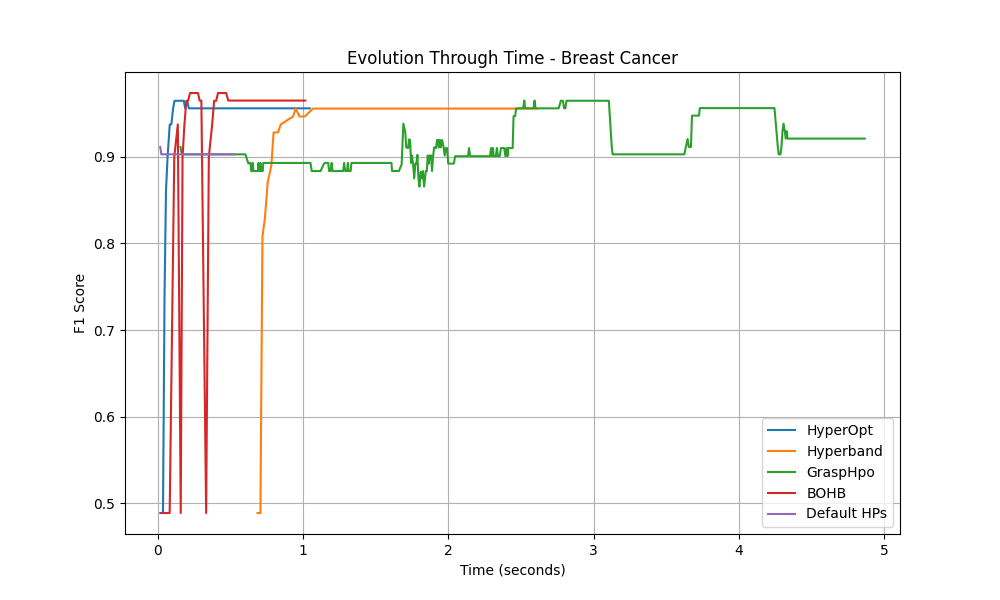
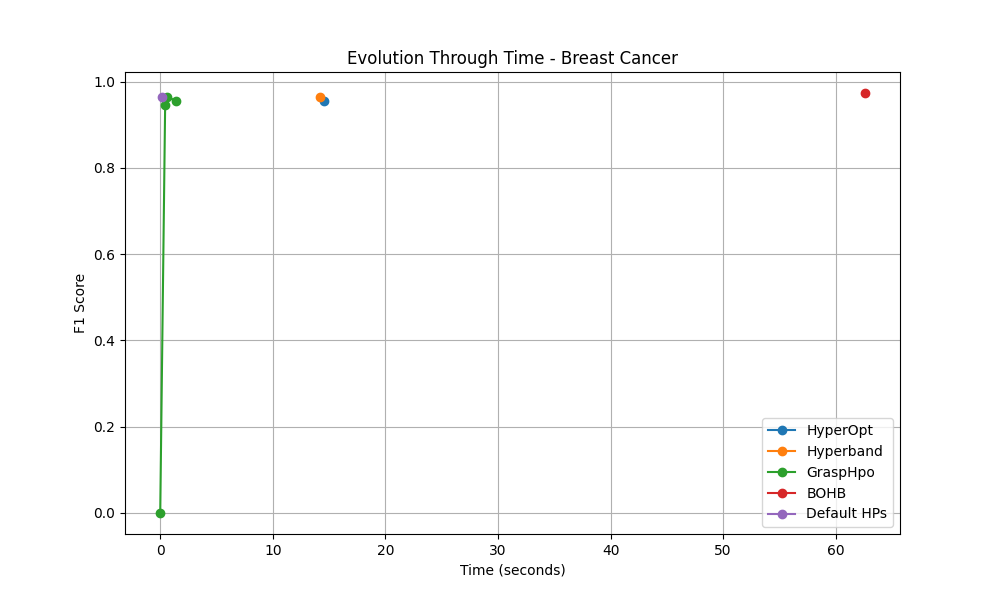
Revert "Feature/grasp evolution by round"

diff --git a/src/hpo/grasp/phase2grasp.py b/src/hpo/grasp/phase2grasp.py
@@ -37,6 +37,8 @@ class LocalSearch:
         f1_scores_evolution = []
         time_evolution = []
 
+        tmp_score = 0
+
         while not intermed_best_sols.empty():
             if time.time() - phase_start_time > self.timelimit:
                 break
@@ -44,23 +46,26 @@ class LocalSearch:
             cur = intermed_best_sols.get()
 
             if verbose: print('LS iteration {}: \nBest solution after phase 1: {}\nCorresponding score: {}'.format(iter, cur[2], cur[0]))
-            tmp_score, tmp_sol = self.hill_climb(cur[2], x_train, x_test, y_train, y_test, phase_start_time, start_time, f1_scores_evolution, time_evolution)
+            tmp_score, tmp_sol = self.hill_climb(cur[2], x_train, x_test, y_train, y_test, phase_start_time)
             if verbose: print('LS iteration {}: \nBest solution after phase 2: {}\nCorresponding score: {}\n'.format(iter, tmp_sol, tmp_score))
 
             if tmp_score > local_best_score:
+                f1_scores_evolution.append(tmp_score)
+                time_evolution.append(time.time() - start_time)
                 local_best_score = tmp_score
                 local_best_sol = tmp_sol
                 if verbose: print('After LS iteration {}: LS found neighbor solution w/ higher f-1 mean than phase 1'.format(iter, local_best_sol, local_best_score))
             iter += 1
 
+        time_evolution.append(time.time() - start_time)
+        f1_scores_evolution.append(tmp_score)
+
         return local_best_sol, local_best_score, f1_scores_evolution, time_evolution
 
-    def hill_climb(self, cur_sol: dict, x_train, x_test, y_train, y_test, phase_start_time, start_time, f1_scores_evolution, time_evolution):
+    def hill_climb(self, cur_sol: dict, x_train, x_test, y_train, y_test, phase_start_time):
+
         best_sol = cur_sol
-        f1_scores_per_round, round_times = self.evaluate(cur_sol, x_train, x_test, y_train, y_test, start_time)
-        f1_scores_evolution.extend(f1_scores_per_round)
-        time_evolution.extend(round_times)
-        best_score = max(f1_scores_per_round)
+        best_score = self.evaluate(cur_sol, x_train, x_test, y_train, y_test)
 
         for _ in range(self.max_iter):
 
@@ -68,10 +73,8 @@ class LocalSearch:
                 break
 
             neighbor_sol = self.generate_neighbor(cur_sol)
-            neighbor_scores, neighbor_times = self.evaluate(neighbor_sol, x_train, x_test, y_train, y_test, start_time)
-            f1_scores_evolution.extend(neighbor_scores)
-            time_evolution.extend(neighbor_times)
-            neighbor_score = max(neighbor_scores)
+            neighbor_score = self.evaluate(neighbor_sol, x_train, x_test, y_train, y_test)
+
             if neighbor_score > best_score:
                 best_sol = neighbor_sol
                 best_score = neighbor_score
@@ -85,7 +88,7 @@ class LocalSearch:
 
         neighbor = cur_solution.copy()
         for hp in neighbor.keys():
-            if hp in ['objective', 'num_class', 'n_estimators']:
+            if hp in ['objective', 'num_class']:
                 continue
 
             plus_minus = (self.hp_ranges[hp][1] - self.hp_ranges[hp][0]) * (self.margin / 2.0)

diff --git a/src/hpo/grasp/grasp_hpo.py b/src/hpo/grasp/grasp_hpo.py
@@ -1,15 +1,15 @@
 import time
-import xgboost
 import numpy as np
-
+from xgboost import XGBClassifier
 from sklearn.metrics import f1_score
+
 from src.hpo.hpo_strategy import HPOStrategy
 from src.hpo.grasp.phase1grasp import Construction
 from src.hpo.grasp.phase2grasp import LocalSearch
 
 
-LOCAL_SEARCH_ITERATIONS = 2
-LOCAL_SEARCH_TIMELIMIT = 20
+LOCAL_SEARCH_ITERATIONS = 1
+LOCAL_SEARCH_TIMELIMIT = 1
 BUILDING_PHASE_ITERATIONS = 1
 BUILDING_PHASE_TIMELIMIT = 20
 INTERMEDIATE_RESULTS_SIZE = 5
@@ -32,53 +32,13 @@ class GraspHpo(HPOStrategy):
         return local_best_sol, local_best_score, (f1_scores_evolution, time_evolution)
 
     @staticmethod
-    def evaluate_solution(params, x_train, x_test, y_train, y_test, start_time):
-        # Define the custom evaluation function inside evaluate_solution to record time of each iteration
-        class TimeEvaluationCallback(xgboost.callback.TrainingCallback):
-            def __init__(self):
-                super().__init__()
-                self.times = []
-
-            def after_iteration(self, model, epoch, evals_log):
-                current_time = time.time()
-                self.times.append(current_time - start_time)
-                return False  # Return False to continue training
-
-        def evaluate_f1_score(predt: np.ndarray, dtrain: xgboost.DMatrix) -> np.ndarray:
-            """Compute the f1 score"""
-            y = dtrain.get_label()
-            if len(np.unique(y)) == 2:
-                threshold = 0.5
-                binary_preds = [1 if p > threshold else 0 for p in predt]
-                f1 = f1_score(y, binary_preds, average="weighted")
-            else:
-                f1 = f1_score(y, np.argmax(predt, axis=1), average="weighted") if predt.ndim > 1 else f1_score(y, predt, average="weighted")
-            return "f1_score", f1
-
+    def evaluate_solution(params, x_train, x_test, y_train, y_test):
         class_quantity = len(np.unique(y_train))
         if class_quantity > 2:
             params["objective"] = "multi:softmax"
-            params["num_class"] = class_quantity
+            params["num_class"] = str(class_quantity)
 
-        train_set = xgboost.DMatrix(data=x_train, label=y_train)
-        test_set = xgboost.DMatrix(data=x_test, label=y_test)
-
-        evals_result = {}
-
-        time_callback = TimeEvaluationCallback()
-
-        xgboost.train(
-            params,
-            train_set,
-            evals=[(test_set, "eval")],
-            verbose_eval=False,
-            custom_metric=evaluate_f1_score,
-            num_boost_round=100,
-            evals_result=evals_result,
-            callbacks=[time_callback]
-        )
-        round_times = time_callback.times
-
-        f1_scores_per_round = evals_result['eval']['f1_score']
-
-        return f1_scores_per_round, round_times
+        xgboost_classifier = XGBClassifier(**params)
+        xgboost_classifier.fit(x_train, y_train)
+        y_pred = xgboost_classifier.predict(x_test)
+        return f1_score(y_test, y_pred, average='weighted')

diff --git a/src/hpo/benchmark/default.py b/src/hpo/benchmark/default.py
@@ -1,6 +1,6 @@
 from sklearn.metrics import f1_score
 import numpy as np
-import xgboost
+from xgboost import XGBClassifier
 
 from src.hpo.hpo_strategy import HPOStrategy
 import time
@@ -9,55 +9,14 @@ import time
 class Default(HPOStrategy):
     def hyperparameter_optimization(self,  x_train, x_test, y_train, y_test, search_space):
         start_time = time.time()
-
-        # Define the custom evaluation function inside evaluate_solution to record time of each iteration
-        class TimeEvaluationCallback(xgboost.callback.TrainingCallback):
-            def __init__(self):
-                super().__init__()
-                self.times = []
-
-            def after_iteration(self, model, epoch, evals_log):
-                current_time = time.time()
-                self.times.append(current_time - start_time)
-                return False  # Return False to continue training
-
-        def evaluate_f1_score(predt: np.ndarray, dtrain: xgboost.DMatrix) -> np.ndarray:
-            """Compute the f1 score"""
-            y = dtrain.get_label()
-            if len(np.unique(y)) == 2:
-                threshold = 0.5
-                binary_preds = [1 if p > threshold else 0 for p in predt]
-                f1 = f1_score(y, binary_preds, average="weighted")
-            else:
-                f1 = f1_score(y, np.argmax(predt, axis=1), average="weighted") if predt.ndim > 1 else f1_score(y, predt,
-                                                                                                               average="weighted")
-            return "f1_score", f1
-
         params = {}
         class_quantity = len(np.unique(y_train))
         if class_quantity > 2:
             params["objective"] = "multi:softmax"
-            params["num_class"] = class_quantity
+            params["num_class"] = str(class_quantity)
 
-        train_set = xgboost.DMatrix(data=x_train, label=y_train)
-        test_set = xgboost.DMatrix(data=x_test, label=y_test)
-
-        evals_result = {}
-
-        time_callback = TimeEvaluationCallback()
-
-        xgboost.train(
-            params,
-            train_set,
-            evals=[(test_set, "eval")],
-            verbose_eval=False,
-            custom_metric=evaluate_f1_score,
-            num_boost_round=100,
-            evals_result=evals_result,
-            callbacks=[time_callback]
-        )
-        round_times = time_callback.times
-
-        f1_scores_per_round = evals_result['eval']['f1_score']
-
-        return params, max(f1_scores_per_round), (f1_scores_per_round, round_times)
+        xgboost_classifier = XGBClassifier(**params)
+        xgboost_classifier.fit(x_train, y_train)
+        y_pred = xgboost_classifier.predict(x_test)
+        score = f1_score(y_test, y_pred, average='weighted')
+        return params, f1_score(y_test, y_pred, average='weighted'), ([score], [time.time() - start_time])

diff --git a/src/hpo/grasp/phase1grasp.py b/src/hpo/grasp/phase1grasp.py
@@ -37,10 +37,10 @@ class Construction:
         # print('\nStarting building phase...')
         best_intermediate_combinations = PriorityQueue()
 
-        f1_scores, times = self.evaluate(DEFAULT_HYPERPARAMETERS, x_train, x_test, y_train, y_test, start_time)
-        best_intermediate_combinations.put((f1_scores[-1], uuid.uuid4(), DEFAULT_HYPERPARAMETERS))
-        f1_scores_evolution = f1_scores
-        time_evolution = times
+        f1_score = self.evaluate(DEFAULT_HYPERPARAMETERS, x_train, x_test, y_train, y_test)
+        best_intermediate_combinations.put((f1_score, uuid.uuid4(), DEFAULT_HYPERPARAMETERS))
+        f1_scores_evolution = [0]
+        time_evolution = [0]
         for i in range(self.max_iter):
             if time.time() - start_time > self.timelimit:
                 break
@@ -59,12 +59,13 @@ class Construction:
                 "gamma":  self.get_random_hyperparameter_value('gamma', search_space['gamma'])
             }
 
-            f1_scores, times = self.evaluate(selected_hyperparameters, x_train, x_test, y_train, y_test, start_time)
+            f1_score = self.evaluate(selected_hyperparameters, x_train, x_test, y_train, y_test)
 
-            f1_scores_evolution.extend(f1_scores)
-            time_evolution.extend(times)
+            if f1_score > f1_scores_evolution[-1]:
+                f1_scores_evolution.append(f1_score)
+                time_evolution.append(time.time() - start_time)
 
-            best_intermediate_combinations.put((f1_scores[-1], uuid.uuid4(), selected_hyperparameters))
+            best_intermediate_combinations.put((f1_score, uuid.uuid4(), selected_hyperparameters))
             if best_intermediate_combinations.qsize() > self.intermediate_results_size:
                 best_intermediate_combinations.get()
 

diff --git a/src/output/chart_builder.py b/src/output/chart_builder.py
@@ -9,14 +9,14 @@ def plot_final_metrics(data, save_path):
     fig, (ax1, ax2) = plt.subplots(1, 2, figsize=(14, 6))
 
     f1_score_df = df.pivot(index="input", columns="hpo_strategy", values="f1_score")
-    f1_score_df.plot(kind="line", ax=ax1, linestyle='dashed')
+    f1_score_df.plot(kind="line", ax=ax1, marker='o', linestyle='dashed')
     ax1.set_ylabel("F1 Score")
     ax1.set_xlabel("Dataset")
     ax1.set_title("F1 Score Comparison: GRASP vs. Hyperband")
     ax1.legend(title="HPO Strategy results")
 
     time_df = df.pivot(index="input", columns="hpo_strategy", values="evaluation_time")
-    time_df.plot(kind="line", ax=ax2)
+    time_df.plot(kind="line", ax=ax2, marker='o')
     ax2.set_ylabel("Evaluation Time (s)")
     ax2.set_xlabel("Dataset")
     ax2.set_title("Evaluation Time Comparison: GRASP vs. Hyperband")
@@ -37,7 +37,7 @@ def plot_evolution_through_time(data, dataset_names, output_path):
         for item in data:
             if item['input'] == dataset_name:
                 strategy, f1_scores, times = item["hpo_strategy"], item["evolution_through_time"][0], item["evolution_through_time"][1]
-                plt.plot(times, f1_scores, label=f"{strategy}")
+                plt.plot(times, f1_scores, marker='o', label=f"{strategy}")
 
         plt.title(f'Evolution Through Time - {dataset_name}')
         plt.xlabel('Time (seconds)')

diff --git a/src/main.py b/src/main.py
@@ -37,13 +37,11 @@ class Main:
 
     @staticmethod
     def main():
-        dataset_names = ['Breast Cancer', 'Digits', 'Iris', 'Wine', 'Ereno']
+        dataset_names = ['Ereno', 'Breast Cancer', 'Digits', 'Iris', 'Wine']
         # dataset_names = ['Breast Cancer', 'Digits', 'Iris', 'Wine']
         # dataset_names = ['Ereno']
         strategies = ['HyperOpt', 'Hyperband', 'GraspHpo', 'BOHB', 'Default HPs']
         # strategies = ['GraspHpo']
-        # strategies = ['BOHB']
-        # strategies = ['Default HPs']
 
         data_final_metrics = []
         data_evolution = []
@@ -52,7 +50,6 @@ class Main:
             dataset = DatasetFactory.load_dataset(dataset_name)
 
             for strategy in strategies:
-                print('Dataset: ', dataset_name, '\nStrategy: ', strategy)
                 f1_score, evaluation_time, evolution_through_time = Main.evaluate_hpo(strategy, dataset)
                 data_final_metrics.append({
                     "input": dataset_name,
